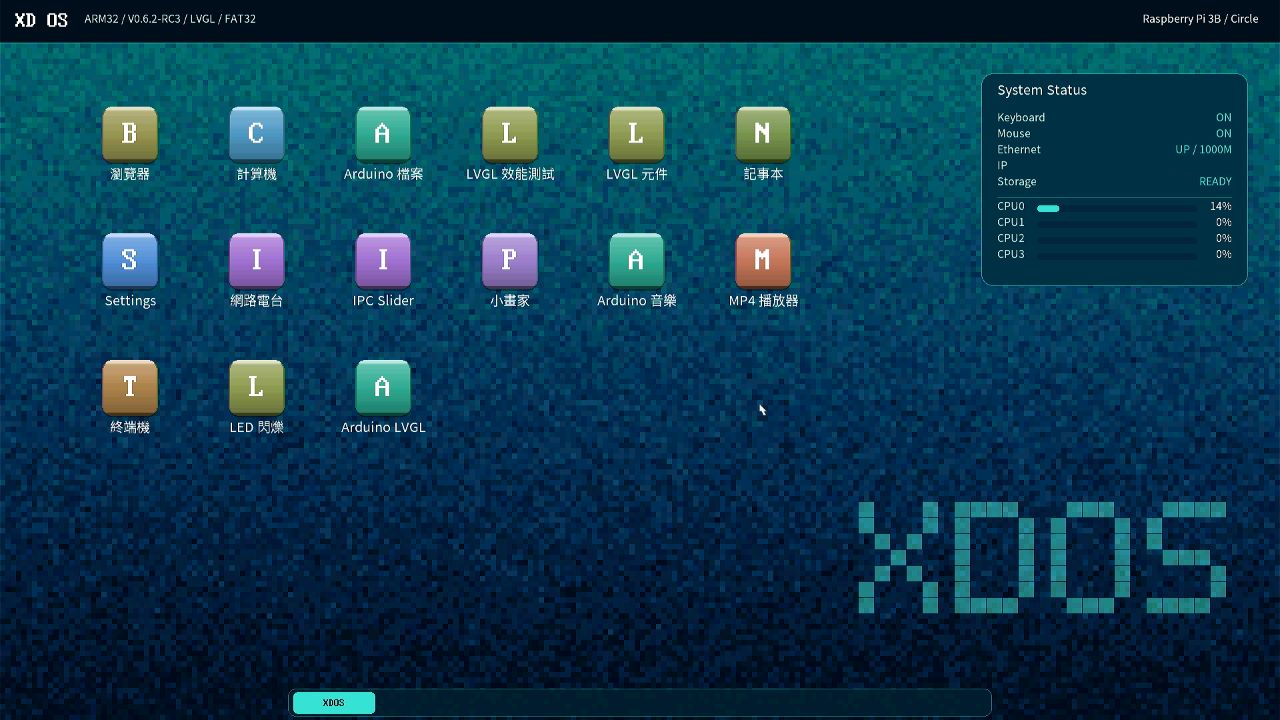
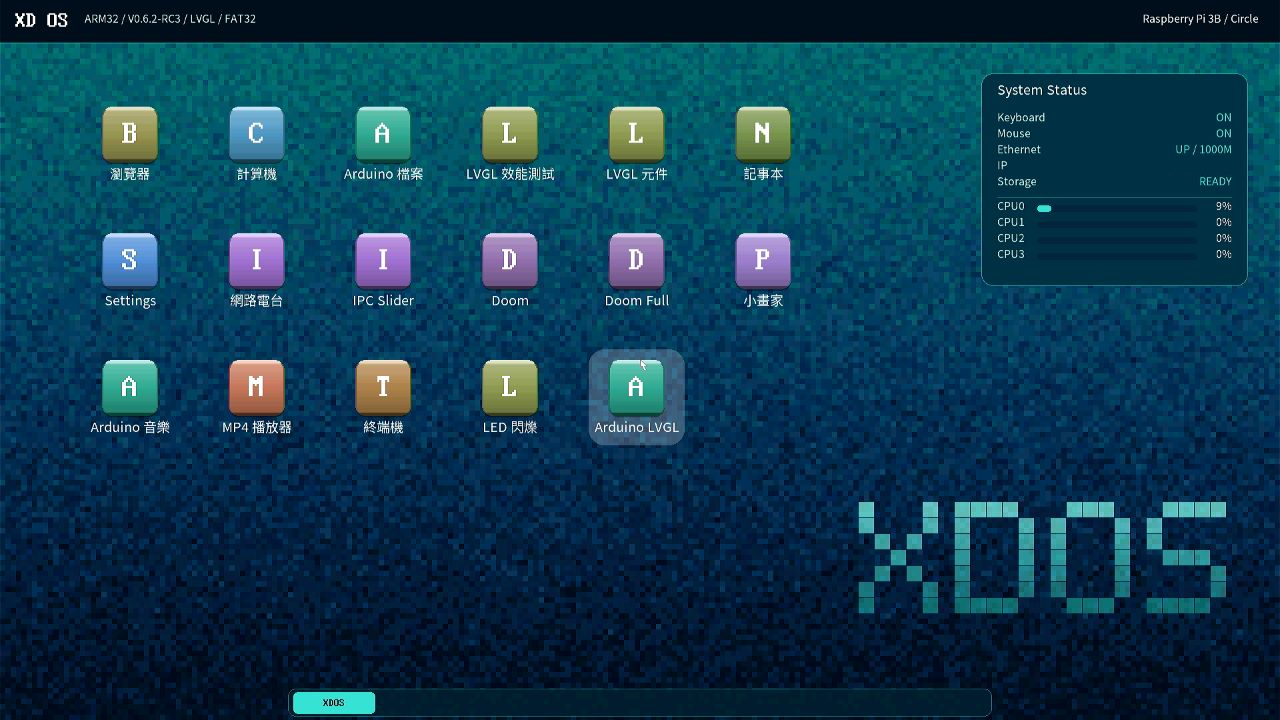
Show verified XDOS wordmark in hardware capture

diff --git a/README_JA.md b/README_JA.md
@@ -13,7 +13,7 @@ XDOS は Raspberry Pi 向けの ARM32 ベアメタルデスクトップです。
 | --- | --- |
 | ![XDOS の起動診断](docs/ui/boot.jpg) | ![XDOS のデスクトップ](docs/ui/desktop.png) |
 
-右下の XDOS ロゴを明るくしたデザインは実機での確認待ちです。[ロゴのプレビュー](docs/ui/logo-preview.png)
+デスクトップは Raspberry Pi 3B+ 上の FVDOOMD を撮影したものです。右下の XDOS ロゴは上部を明るくした青緑のグラデーションです。
 
 [FVR19 起動画面](docs/fvr19/boot.png) · [FVR19 デスクトップ](docs/fvr19/desktop.png) · [FVR19 LVGL Benchmark](docs/fvr19/benchmark.png)
 

diff --git a/README.md b/README.md
@@ -29,7 +29,7 @@ The updated desktop has a grain-gradient wallpaper, a floating dock, and a syste
 | --- | --- |
 | ![XDOS boot diagnostics](docs/ui/boot.jpg) | ![XDOS desktop](docs/ui/desktop.png) |
 
-The brighter lower-right XDOS wordmark is a design preview awaiting hardware verification. [Wordmark preview](docs/ui/logo-preview.png)
+The desktop capture shows FVDOOMD running on Raspberry Pi 3B+ with the brighter top edge of the lower-right XDOS wordmark.
 
 [FVR19 boot screen](docs/fvr19/boot.png) · [FVR19 desktop](docs/fvr19/desktop.png) · [FVR19 LVGL Benchmark](docs/fvr19/benchmark.png)
 

diff --git a/README_ZH.md b/README_ZH.md
@@ -29,7 +29,7 @@ Arduino SDK、板卡套件與範例已移至 [RPiDuino](https://github.com/hyper
 | --- | --- |
 | ![XDOS 開機診斷](docs/ui/boot.jpg) | ![XDOS 桌面](docs/ui/desktop.png) |
 
-右下角 XDOS 字樣的提亮版目前為設計預覽，待實機驗證。[字樣提亮預覽](docs/ui/logo-preview.png)
+桌面實拍來自 Raspberry Pi 3B+ 執行的 FVDOOMD，右下角 XDOS 字樣已採用上方提亮的青綠漸層。
 
 [FVR19 開機畫面](docs/fvr19/boot.png) · [FVR19 桌面](docs/fvr19/desktop.png) · [FVR19 LVGL Benchmark](docs/fvr19/benchmark.png)
 
